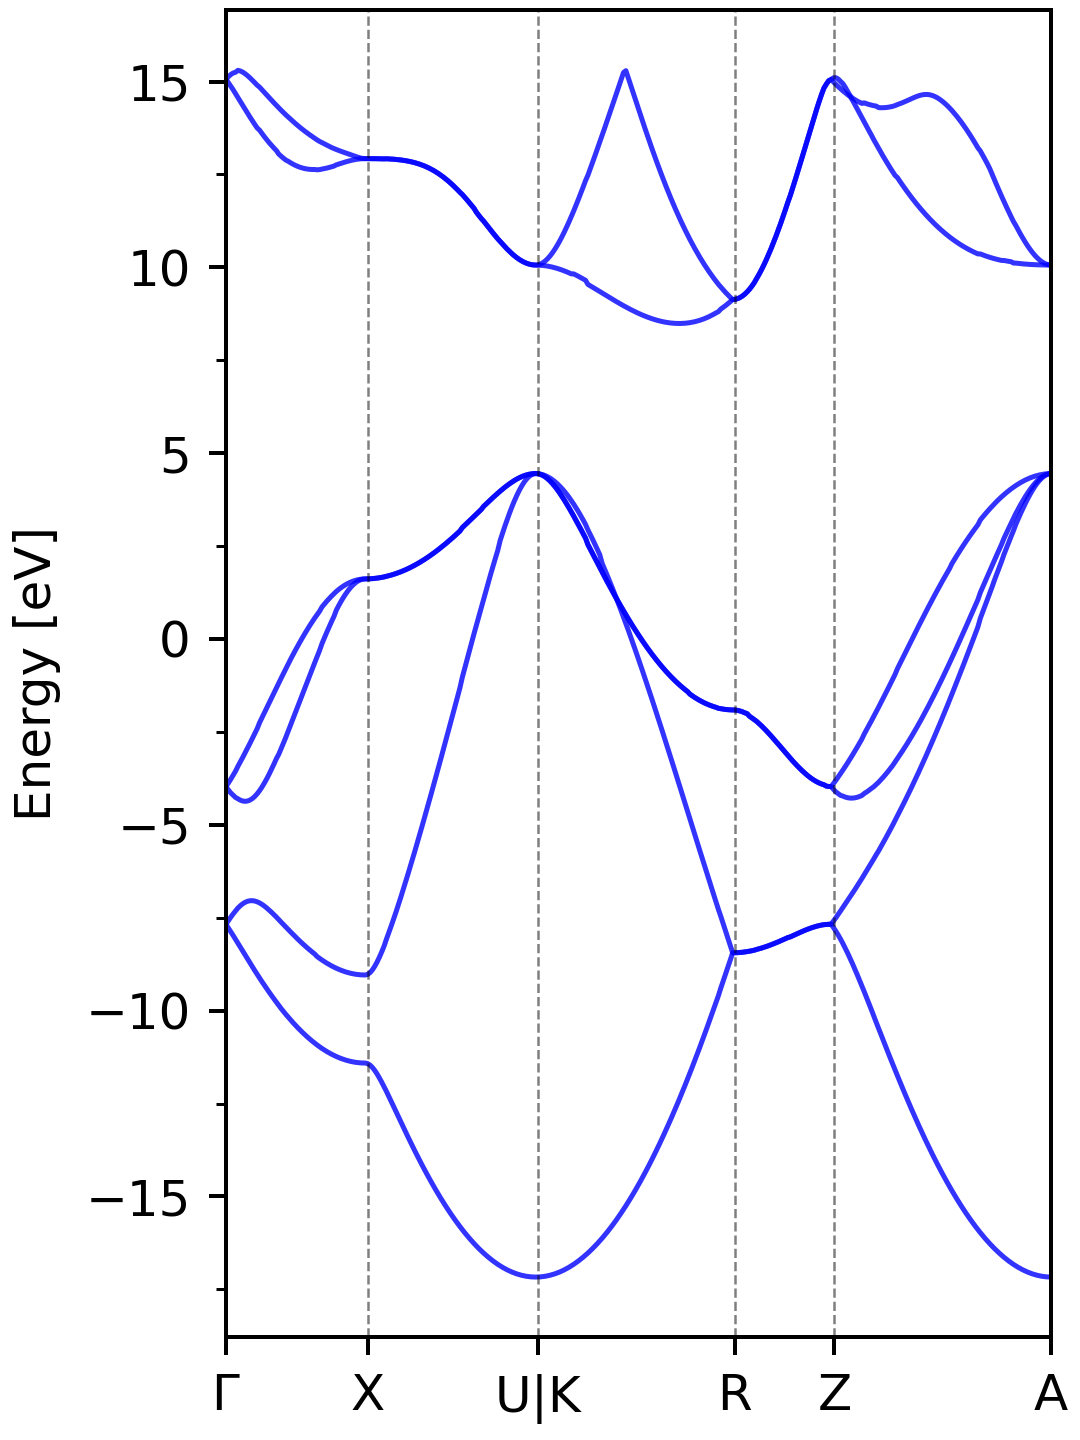
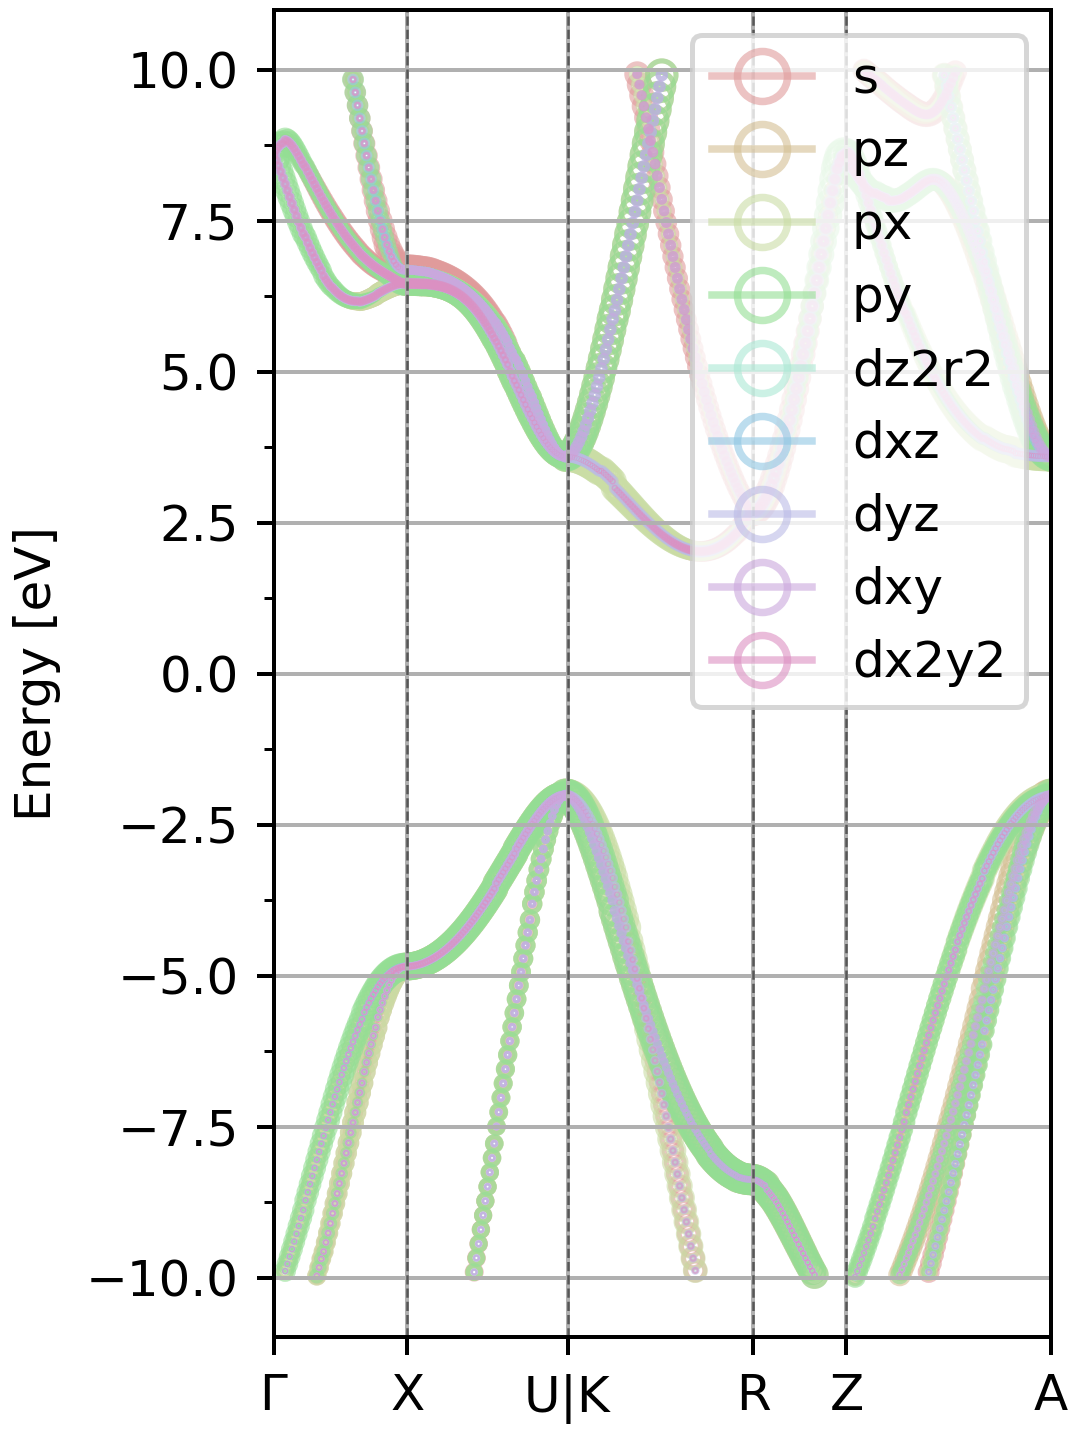
commit

Changed region(s): [[0.1222, 0.0, 0.9778, 1.0], [0.9167, 0.875, 0.9778, 0.9062], [0.8861, 0.0938, 0.9167, 0.125]]

diff --git a/pyband-flapw-bndaxy-v1.py b/pyband-flapw-bndaxy-v1.py
@@ -89,6 +89,13 @@ def command_line_arg():
                    action='store', type="string", dest='bandimage',
                    default='band.png',
                    help='output image name, "band.png" by default')
+    
+    # New option for limiting components up to a specified orbital
+    par.add_option('--components',
+                   action='store', type="string", dest='components',
+                   default='dx2y2',
+                   help='Specify the highest component to include in the plot. Default is "dx2y2"')
+
     return par.parse_args()
 
 
@@ -116,7 +123,6 @@ for line_value in range(1, max_line_value + 1):
         last_occurrence = data_band[data_band['line'] == line_value]['dist'].iloc[-1]
         x_positions_for_labels.append(last_occurrence)
 
-
 # custom_labels の定義
 custom_labels = ['Γ', 'X', 'U|K', 'R', 'Z', 'A']
 
@@ -125,55 +131,98 @@ column_names = ['dist', 'eig', 'iband', 's', 'pz', 'px', 'py', 'dz2r2', 'dxz', '
                 'fm0', 'f+m1', 'f-m1', 'f+m2', 'f-m2', 'f+m3', 'f-m3']
 data_bndatm = pd.read_csv(file_path_bndatm, sep=r'\s+', header=None, names=column_names, comment='#')
 
-
-# Extract the necessary columns
+# # Extract the necessary columns
 dist = data_bndatm['dist']
 eig = data_bndatm['eig']
 
-# List of components to plot
-components = {
-    's': ('blue', 's'),
-    'pz': ('green', 'pz'),
-    'px': ('cyan', 'px'),
-    'py': ('magenta', 'py'),
-    'dz2r2': ('red', 'dz2r2'),
-    'dxz': ('orange', 'dxz'),
-    'dyz': ('purple', 'dyz'),
-    'dxy': ('brown', 'dxy'),
-    'dx2y2': ('olive', 'dx2y2'),
-    #'fm0': ('lightblue', 'fm0'),
-    #f+m1': ('pink', 'f+m1'),
-    #'f-m1': ('lightgreen', 'f-m1'),
-    #'f+m2': ('lightcoral', 'f+m2'),
-    #'f-m2': ('yellow', 'f-m2'),
-    #'f+m3': ('lightgray', 'f+m3'),
-    #'f-m3': ('darkblue', 'f-m3'),
-}
+# Default component order
+component_order = ['s', 'pz', 'px', 'py', 'dz2r2', 'dxz', 'dyz', 'dxy', 'dx2y2',
+                   'fm0', 'f+m1', 'f-m1', 'f+m2', 'f-m2', 'f+m3', 'f-m3']
 
-# Create the plot
-plt.figure(figsize=(12, 8))
+# Determine the cutoff component
+cutoff_index = component_order.index(opts.components) + 1
+selected_components = component_order[:cutoff_index]
 
-# Scatter plot for each component based on their weights
+import random
+import colorsys
+# Generate dynamic, distinguishable light colors for each component
+def generate_light_color():
+    base_colors = []
+    hue_step = 1.0 / len(selected_components)  # Distribute colors evenly across the hue spectrum
+
+    for i in range(len(selected_components)):
+        hue = i * hue_step  # Set a different hue for each component
+        lightness = random.uniform(0.7, 0.85)  # Keep lightness high for a pastel color
+        saturation = random.uniform(0.4, 0.6)  # Moderate saturation for distinguishability
+        rgb = colorsys.hls_to_rgb(hue, lightness, saturation)
+        base_colors.append(rgb)
+    
+    return {component: (base_colors[i], component) for i, component in enumerate(selected_components)}
+
+components = generate_light_color()
+
+# Convert to array to get the min and max later
+x_positions_for_labels = np.array(x_positions_for_labels)
+
+# Initiazlize graph
+width, height = opts.figsize
+if opts.ylim:
+    ymin, ymax = opts.ylim
+else:
+    _ = opts.ylim
+
+dpi = opts.dpi
+
+fig = plt.figure()
+fig.set_size_inches(width, height)
+ax = plt.subplot(111)
+
+# Scatter plot for each component based on their weights, with no fill
 for component, (color, label) in components.items():
-    plt.scatter(dist, eig, s=data_bndatm[component] * 1, c=color, label=label, alpha=0.5)
+    plt.scatter(dist, eig, 
+                s=data_bndatm[component] * 1, 
+                edgecolors=color,  # Set edge color
+                facecolors='none',  # No fill color
+                label=label, 
+                alpha=0.6)
 
-plt.ylabel('Energy [eV]', fontsize=14)
-plt.ylim(-10, 10)
 
-# x位置での垂直線を描画
+opts.kpts = "G, X, U|K, R, Z, A" # K-path for diamond
+
 for pos in x_positions_for_labels:
-    plt.axvline(x=pos, color='gray', linestyle='--', linewidth=0.1)
+    ax.axvline(x=pos, 
+               color ='k', 
+               linestyle='--', 
+               linewidth=0.5,
+               alpha=0.5)
 
-# カスタムx軸の目盛りとラベルを設定
-plt.xticks(x_positions_for_labels, custom_labels)
+ax.set_ylabel('Energy [eV]',
+              labelpad=5)
 
-# x軸の範囲をデータが存在する範囲に設定
-plt.xlim(data_bndatm['dist'].min(), data_bndatm['dist'].max())
+ax.set_xticks(x_positions_for_labels)
 
-# 凡例の作成
+if opts.kpts:
+    ax.set_xticklabels(kpath_name_parse(opts.kpts))
+else:
+    ax.set_xticklabels([])
+
+if opts.ylim:
+    ax.set_ylim(ymin, ymax)
+
+# Plot the min and max of X axis
+ax.set_xlim(x_positions_for_labels.min(), x_positions_for_labels.max())
+
+# Update legend to use edge-only markers
 handles, labels = plt.gca().get_legend_handles_labels()
-legend_markers = [plt.Line2D([0], [0], marker='o', color='w', markerfacecolor=h.get_facecolor()[0], markersize=10) for h in handles]
+legend_markers = [plt.Line2D([0], [0], marker='o', color=h.get_edgecolor()[0],  # Use edge color only
+                              markerfacecolor='none', markersize=10, 
+                              markeredgewidth=1.5) for h in handles]  # Adjust edge width for clarity
 plt.legend(legend_markers, labels, loc='upper right')
 
 plt.grid(True)
+
+ax.set_xticks(x_positions_for_labels)
+ax.yaxis.set_minor_locator(AutoMinorLocator(2))
+plt.tight_layout(pad=0.20)
+plt.savefig(opts.bandimage, dpi=opts.dpi)
 plt.show()
